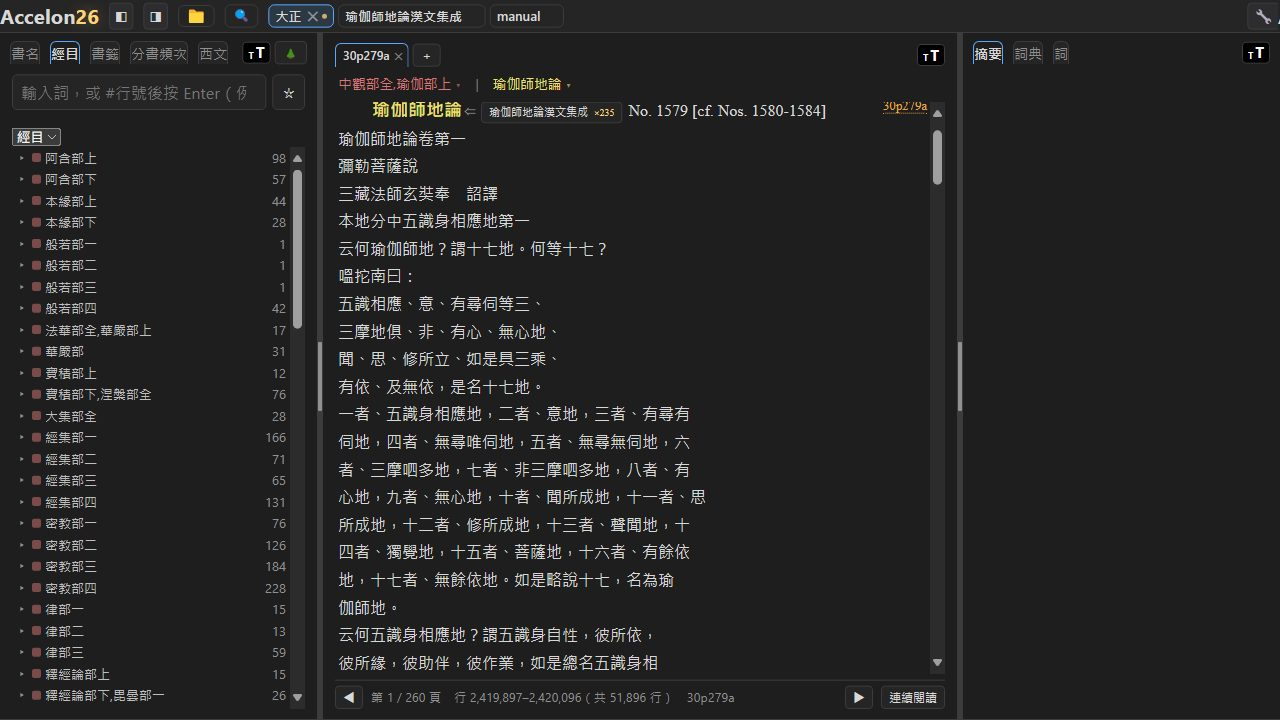
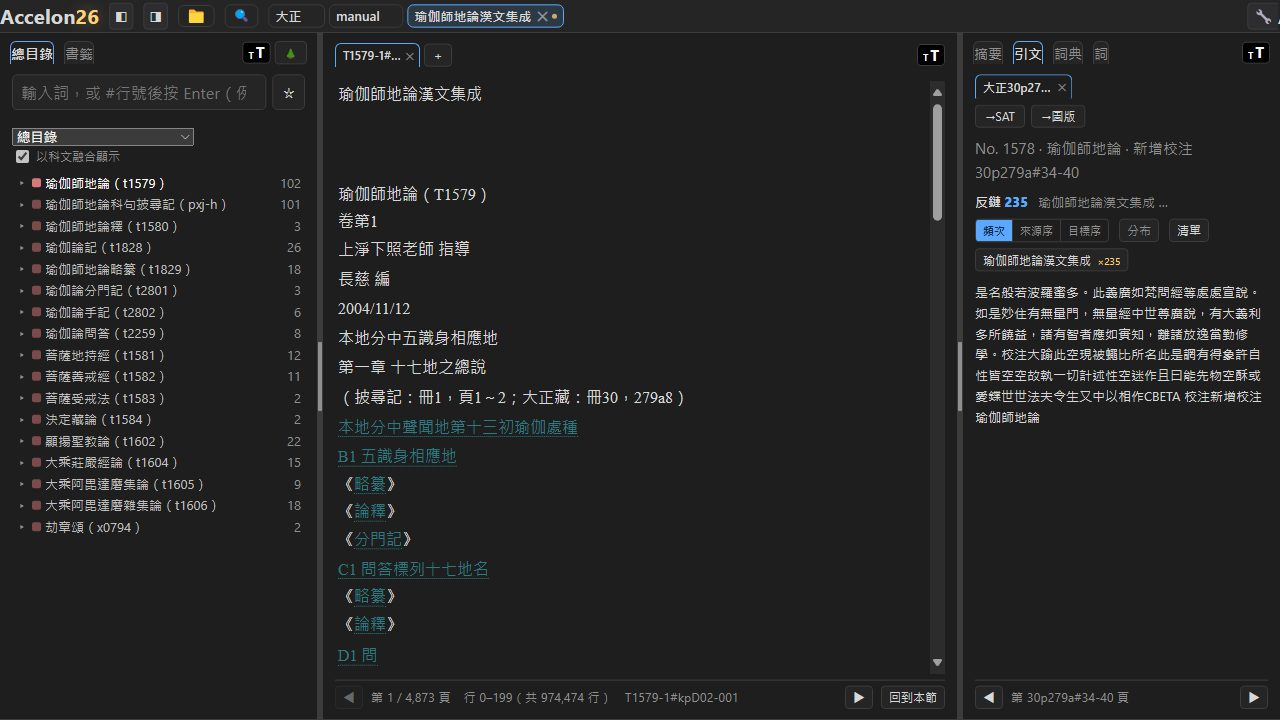
官網反鏈截圖升級為右欄完整一排版（頻次/來源序/目標序/分布/清單 + 反鏈 235）
原 revlink.jpg 是主欄內聯「← ×235」芯片、資訊量低。改用 _capture-slides.ts 新增的
3b 流程重截：載 ybh＋taisho → 切回 ybh 當 main → xrefJump('taisho?30p279a#34-40')
→ 右欄開外庫頁、渲染完整 .xrefRevBar。新圖清楚顯示「反鏈 235」計數、頻次/來源序/
目標序 排序鈕、分布熱圖、完整清單鈕、瑜伽師地論漢文集成 ×235 芯片與下方實際引文。

- www/img/revlink.jpg：換成右欄一排版（1280×720）
- www/index.html：slide 8 圖說改述右欄反鏈一排（不再說「標題旁芯片」）
- _capture-slides.ts：加 shot 3b（右欄版；main 須為 ybh 才落右欄）

只這 3 檔；未碰並行 agent 在途的 deploy/www-adb/make-adb-index/ybh.html。

diff --git a/www/index.html b/www/index.html
@@ -345,7 +345,7 @@
             <p><b>操作導覽</b>：第一次用可以跟著走一遍——聚光燈指著該按的地方，一個場景一停，由你決定要不要往下。</p>
             <p><b>科判層級色</b>：展開《瑜伽師地論》科判目錄，22 層天干地支各異其色；正文裡 B1／C1／D1 等科判標題也依層級上色，一眼看出結構深淺。</p>
             <p><b>科文融合視圖</b>：勾「以科文融合顯示」，《略纂》《論釋》《分門記》等注文直接嵌回本科判之下，像重新排過的合訂本，不必兩邊對照。</p>
-            <p><b>跨庫反鏈</b>：讀《大正藏》任何一頁，標題旁自動出現「← 瑜伽師地論漢文集成 ×235」——這一頁被引了 235 次，點開逐條跳回引文處。</p>
+            <p><b>跨庫反鏈</b>：讀《大正藏》任何一頁，右欄自動列出「反鏈 235」——這一頁被《瑜伽師地論漢文集成》引了 235 次；可按頻次／來源序／目標序排序、看分布熱圖、開完整清單，點一條跳回引文處。</p>
           </div>
           <div class="slides">
             <figure class="slide on">

diff --git a/ts/tools/_capture-slides.ts b/ts/tools/_capture-slides.ts
@@ -85,6 +85,21 @@ try {
     await Bun.sleep(2000);   // 等一排 chips 都畫完
     await shot(cdp, 'revlink.jpg');
   }
+
+  if (which === '3b') {
+    // 右欄完整反鏈一排：main 必須是 ybh，跳 taisho 才落右欄（taisho 當主庫會開進主欄）
+    console.log('[1a+] 右欄反鏈一排・ybh 主 → 跳 taisho?30p279a#34-40…');
+    await loadAdb(cdp, taisho);              // 讓 taisho 成 readerFor 可解析
+    await useDb(cdp, '瑜伽師地論漢文集成');   // 切回 ybh 當 main
+    await cdp.eval(`(async () => {
+      await window.__accelon26.xrefJump('taisho?30p279a#34-40', false, false, '');
+      await new Promise(r => setTimeout(r, 1500));
+      return 1;
+    })()`);
+    await cdp.waitFor('document.querySelector("#colRight .xrefRevBar, .xrefRevBar") !== null', 45000);
+    await Bun.sleep(2500);   // 等右欄 foreign 頁 + 反鏈一排 chips 畫完
+    await shot(cdp, 'revlink2.jpg');
+  }
 } finally {
   await close();
 }
